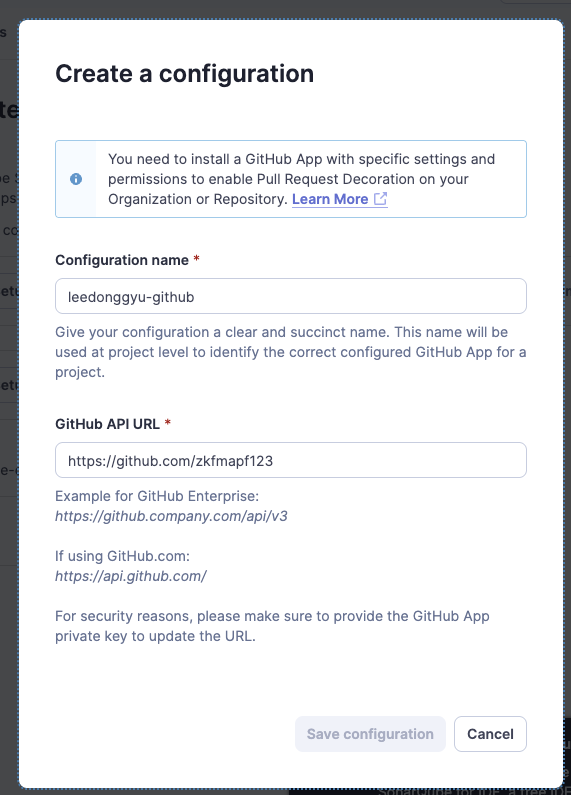
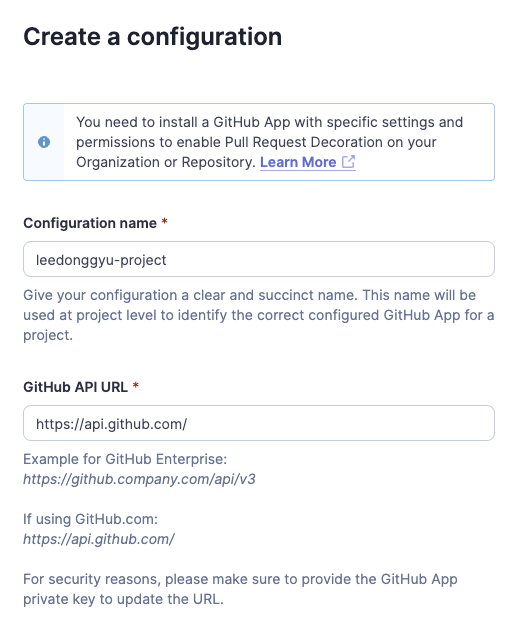
wip-c2dd6a29

Changed region(s): [[0.0, 0.0, 1.0, 1.0], [0.919, 0.3608, 0.9486, 0.3908]]

diff --git a/README.md b/README.md
@@ -1,30 +1,11 @@
 # SonarQube 구축
 
-## Github 적용
+## Github Apps 만들기
 
-### 소나큐브 접속
-![1](./public/1.png)
-
-### SonarQube Github 설정 구성 
-#### Enterpsise -> https://github.company.com/api/v3
-#### Other -> https://api.github.com/
-![2](./public/2.png)
-
-### Github Apps 만들기
-![3](./public/3.png)
-
-### Github Apps 만들기-2
-#### Homepage / Callback / Webhook URL 동일
-
-![4](./public/4.png)
-
-### App Install 하기
-![5](./public/5.png)
-
-### Private Key 생성
-![6](./public/6.png)
-
-## Github Apps 설정 시, Repository Permissin
+### 1. Apps 만들기
+- homepage URL : https://sonarqube-domain
+- callback URL : https://sonarqube-domain/oauth2/callback/github
+- webhook URL : https://sonarqube-domain/github-webhook/
 
 ```sh
 - Repository Permissions
@@ -34,3 +15,26 @@
     - Comit Status -> Read-only
 - Any Account
 ```
+
+### 2. Private Key 발급받기
+
+- SoanrQube랑 연동할때 필요한것
+    - App ID
+    - Client ID
+    - Private Key
+    - Webhook Secret
+
+![pp-1](./public/pp-1.png)
+![private](./public/private.png)
+
+## 소나큐브 설정
+
+- ![1](./public/1.png)
+- ![2](./public/2.png)
+- ![3](./public/3.png)
+
+
+
+### SonarQube Github 설정 구성 
+#### Enterpsise -> https://github.company.com/api/v3
+#### Other -> https://api.github.com/
